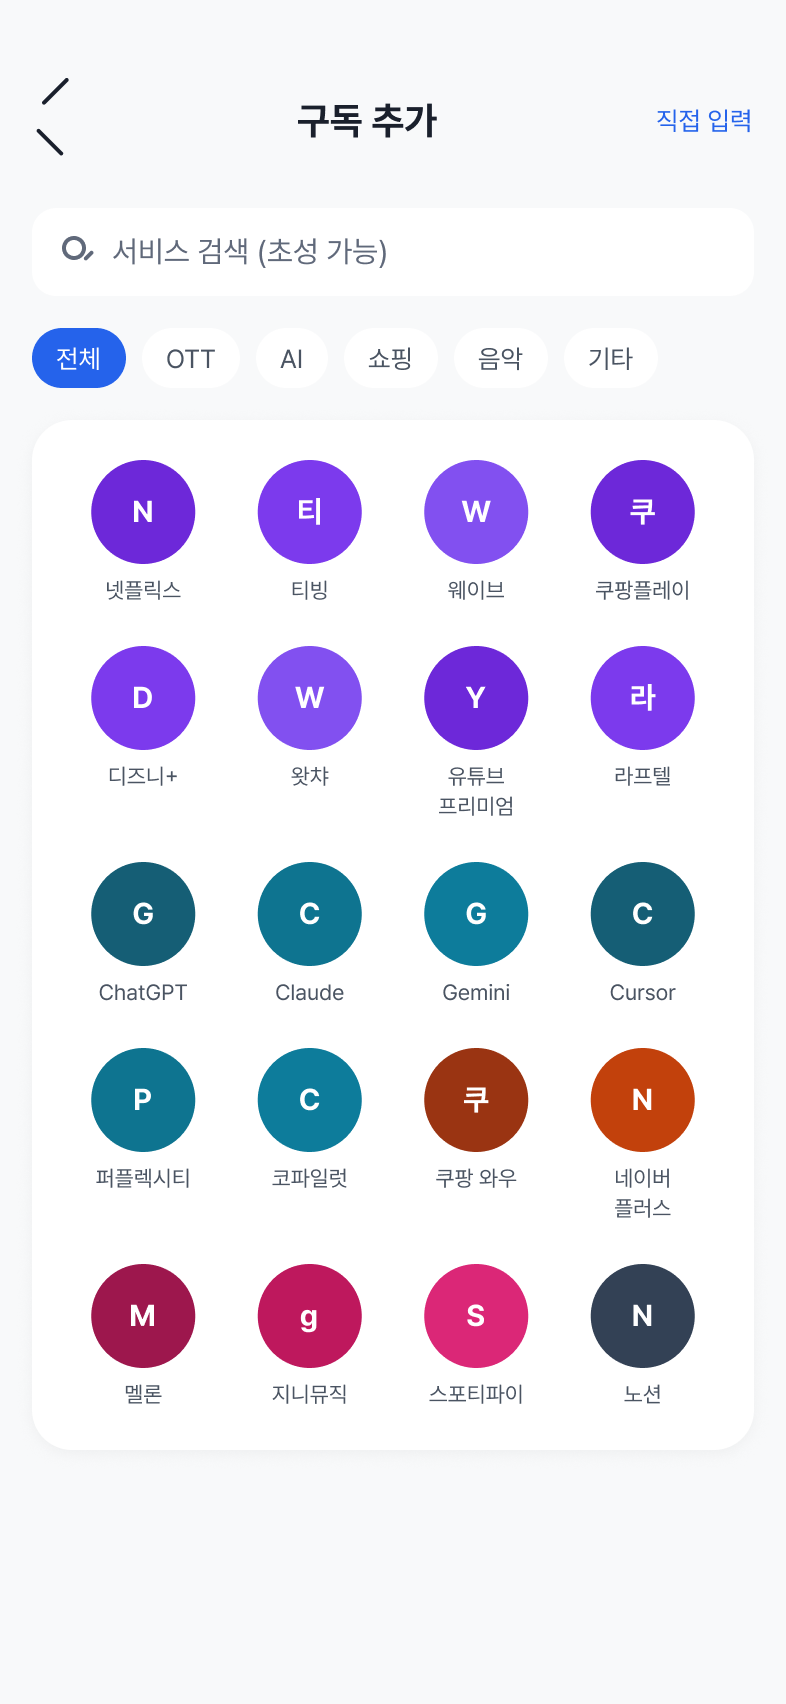
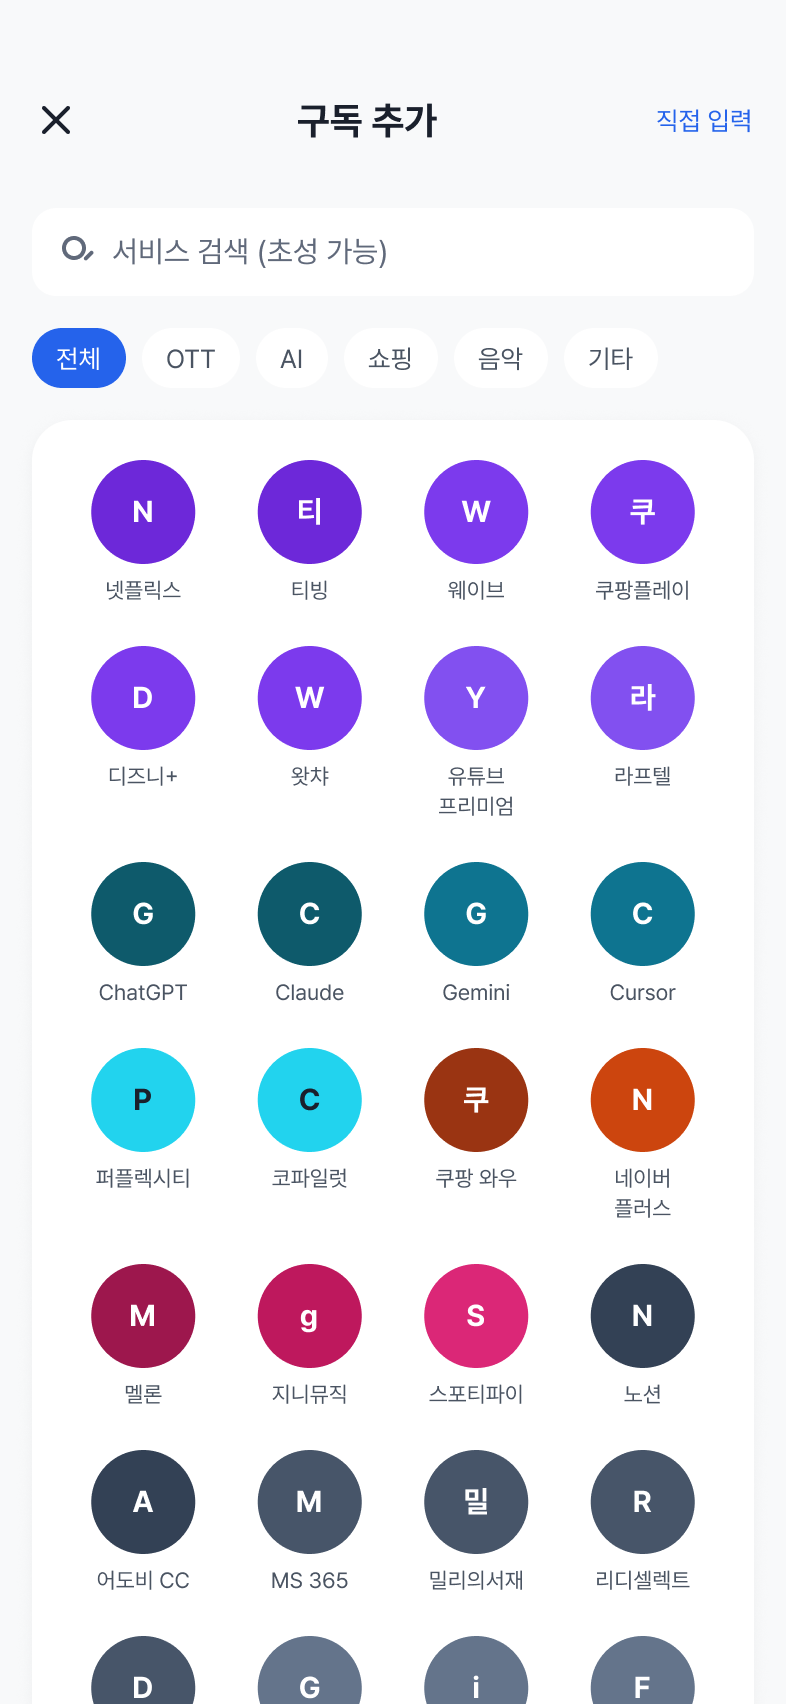
design: 등록 화면 목업 완성 (그리드 + 바텀시트)
Claude-Session: https://claude.ai/code/session_01ACFdgXcoih5Y6DBuLJhto6

diff --git a/src/theme/tokens.ts b/src/theme/tokens.ts
@@ -28,6 +28,8 @@ export interface ColorTokens {
     tertiary: string;
     /** 강조 배경 위 텍스트 */
     inverse: string;
+    /** 밝은 칩/배경 위 텍스트 — 양 모드 모두 어두운 색 (예: AI shade 3) */
+    onBright: string;
   };
   border: {
     default: string;
@@ -73,13 +75,14 @@ export const lightColors: ColorTokens = {
     canvas: '#F8F9FA',
     surface: '#FFFFFF',
     surfaceAlt: '#EDEFF3',
-    overlay: '#000000A6',
+    overlay: '#00000066',
   },
   text: {
     primary: '#1A202C',
     secondary: '#4A5462',
     tertiary: '#60697A',
     inverse: '#FFFFFF',
+    onBright: '#1A202C',
   },
   border: {
     default: '#D2D8E0',
@@ -99,7 +102,9 @@ export const lightColors: ColorTokens = {
   // WCAG AA(4.5:1)를 통과하도록 지정 팔레트에서 한 단계씩 어둡게 보정됨.
   category: {
     OTT: { base: '#7C3AED', 1: '#6D28D9', 2: '#7C3AED', 3: '#8250F0' },
-    AI: { base: '#0E7490', 1: '#155E75', 2: '#0E7490', 3: '#0D7C9B' },
+    // AI.3은 명도 간격 확대를 위해 밝은 청록 — 텍스트는 text.onBright(어두운 색) 사용.
+    // .2 지정값 #0891B2는 흰 텍스트 3.7:1이라 #0E7490으로 보정.
+    AI: { base: '#0E7490', 1: '#0E5A6B', 2: '#0E7490', 3: '#22D3EE' },
     SHOPPING: { base: '#C2410C', 1: '#9A3412', 2: '#C2410C', 3: '#CC450E' },
     MUSIC: { base: '#DB2777', 1: '#9D174D', 2: '#BE185D', 3: '#DB2777' },
     ETC: { base: '#64748B', 1: '#334155', 2: '#475569', 3: '#64748B' },
@@ -111,13 +116,14 @@ export const darkColors: ColorTokens = {
     canvas: '#121214',
     surface: '#1C1C1F',
     surfaceAlt: '#26262B',
-    overlay: '#000000B3',
+    overlay: '#00000094',
   },
   text: {
     primary: '#ECEDEF',
     secondary: '#B4BCC7',
     tertiary: '#8E98A5',
     inverse: '#17181A',
+    onBright: '#17181A',
   },
   border: {
     default: '#3A3B41',

diff --git a/tests/theme.test.ts b/tests/theme.test.ts
@@ -56,13 +56,16 @@ describe('WCAG AA (4.5:1) 전수 검증', () => {
       expect(inv, `${name} text.inverse on brand = ${inv.toFixed(2)}`).toBeGreaterThanOrEqual(WCAG_AA);
     });
 
-    it(`${name}: 카테고리 칩(base + shade 1~3) 배경 위 text.inverse 대비`, () => {
+    it(`${name}: 카테고리 칩(base + shade 1~3) 배경 위 칩 텍스트 대비`, () => {
       for (const [key, shades] of Object.entries(colors.category)) {
         for (const [shadeName, value] of Object.entries(shades)) {
-          const ratio = contrastRatio(colors.text.inverse, value);
+          // 밝은 셰이드(AI.3)는 text.onBright(어두운 색)를 쓴다 — 그 외는 text.inverse
+          const usesOnBright = name === 'light' && key === 'AI' && shadeName === '3';
+          const chipText = usesOnBright ? colors.text.onBright : colors.text.inverse;
+          const ratio = contrastRatio(chipText, value);
           expect(
             ratio,
-            `${name} text.inverse on category.${key}.${shadeName} = ${ratio.toFixed(2)}`,
+            `${name} chipText on category.${key}.${shadeName} = ${ratio.toFixed(2)}`,
           ).toBeGreaterThanOrEqual(WCAG_AA);
         }
       }
